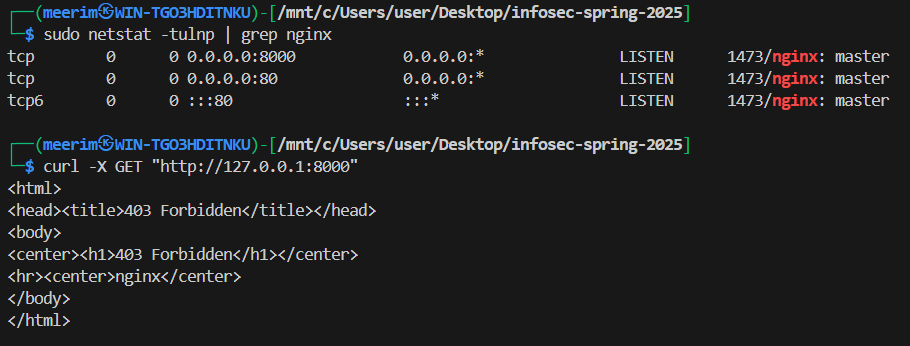
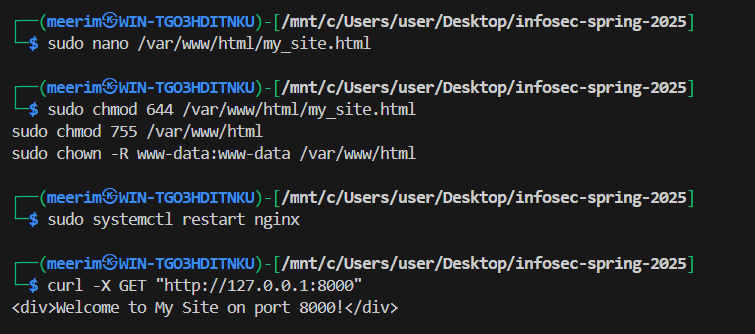
configure permission

diff --git a/lab 10/my_site.html b/lab 10/my_site.html
@@ -1,8 +1,1 @@
-<html>
-<head>
-    <title>My NGINX Site</title>
-</head>
-<body>
-    <div>Welcome to My Site on port 8000!</div>
-</body>
-</html>
+<div>Welcome to My Site on port 8000!</div>
